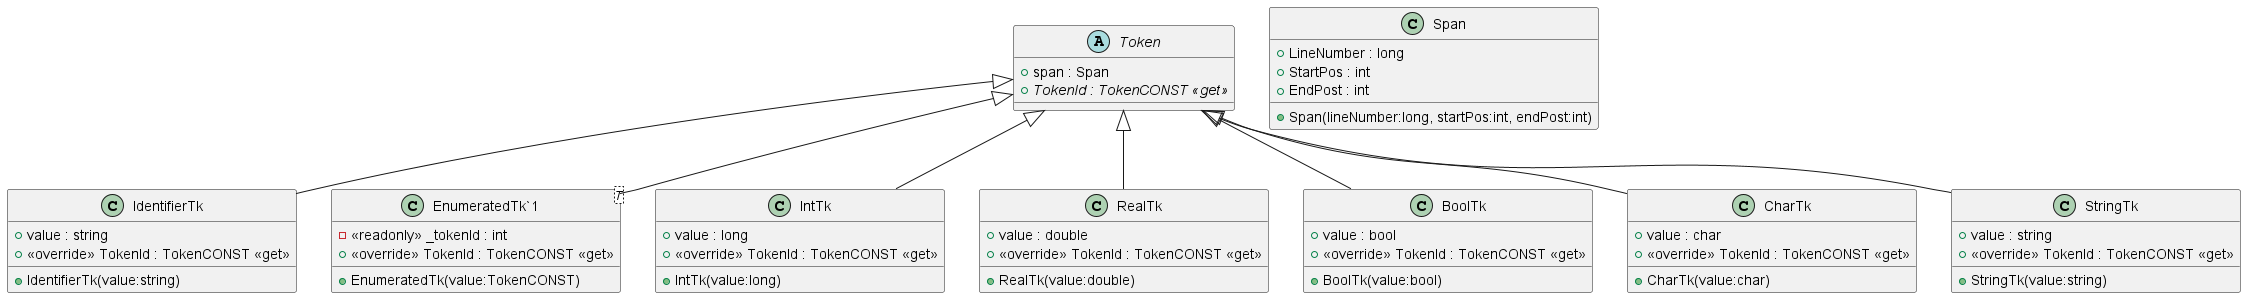
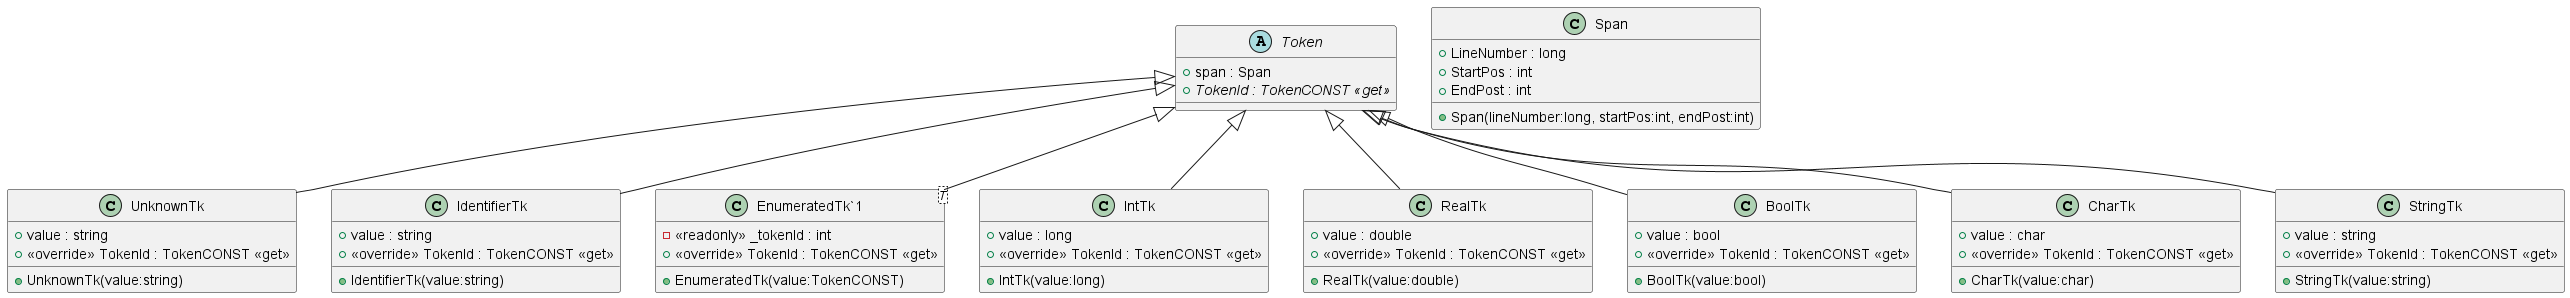
Add unknown token type

diff --git a/Compiler/Program.cs b/Compiler/Program.cs
@@ -3,7 +3,8 @@
 using Compiler.SyntaxAnalyser;
 using Newtonsoft.Json;
 
-var program = @"routine gcd (a: integer, b: integer): integer is
+var program = @"2a 4.2.0
+routine gcd (a: integer, b: integer): integer is
     if a > b then
 //some comment
        var small := b;
@@ -16,8 +17,15 @@ var program = @"routine gcd (a: integer, b: integer): integer is
         end;
     return ans;";
 
-// program = @"for i in 1 .. (small + 1) loop is";
+// program = @"2a int";
 
 
 foreach (var tok in SyntaxAnalyser.FinalStateAutomata(program))
-    Console.WriteLine($"{tok.TokenId} \t {JsonConvert.SerializeObject(tok)}");
+{
+    Console.ForegroundColor = ConsoleColor.Yellow;
+    Console.Write($"{tok.GetType().Name}\t");
+    Console.ForegroundColor = ConsoleColor.Green;
+    Console.Write($"{tok.TokenId}\t");
+    Console.ForegroundColor = ConsoleColor.White;
+    Console.WriteLine($"{JsonConvert.SerializeObject(tok)}");
+}

diff --git a/Compiler/SyntaxAnalyser/SyntaxAnalyser.cs b/Compiler/SyntaxAnalyser/SyntaxAnalyser.cs
@@ -41,7 +41,8 @@ public static class SyntaxAnalyser
                     token = new EnumeratedTk<Comparators>(preset);
             }
             // Makes Const tokens of types integer and real
-            else if (TokenRegexes.Numbers.IsMatch(buffer) && !(char.IsNumber(symbol) || symbol == '.'))
+            else if (TokenRegexes.Numbers.IsMatch(buffer) &&
+                     !(char.IsNumber(symbol) || char.IsLetter(symbol) || symbol == '.'))
             {
                 if (long.TryParse(buffer, out var integer)) token = new IntTk(integer);
 
@@ -72,6 +73,10 @@ public static class SyntaxAnalyser
                 }
 
                 buffer = "";
+            }
+            else if (TokenRegexes.Unknown.IsMatch(buffer) && TokenRegexes.Whitespaces.IsMatch(symbol.ToString()))
+            {
+                token = new UnknownTk(buffer);
             }
 
             if (token is not null)

diff --git a/Compiler/Tokens/TokenRegexes.cs b/Compiler/Tokens/TokenRegexes.cs
@@ -5,8 +5,7 @@ namespace Compiler.Tokens;
 public static class TokenRegexes
 {
     // https://regex101.com/
-    public static readonly Regex Numbers = new(@"^[-]?(\d+\.?\d*|\d*\.\d+)");
-    public static readonly Regex Letters = new(@"[_a-zA-Z]");
+    public static readonly Regex Numbers = new(@"^[-]?(\d+\.?\d*|\d*\.\d+)$");
     public static readonly Regex Identifiers = new(@"^[_a-zA-Z]+[_a-zA-Z1-9]*");
     public static readonly Regex Strings = new("\"[^\"]*\"");
     public static readonly Regex Chars = new("'.'");
@@ -15,4 +14,5 @@ public static class TokenRegexes
     public static readonly Regex Comparators = new(@"^(<=|>=|<|>|=|/=)$");
     public static readonly Regex Puncuators = new(@"^[\(\)\{\}\[\]\;\:\,]$");
     public static readonly Regex Operators = new(@"^(:=|-|\+|\*|\/|%|\.\.|\.)|((and|xor|or))$");
+    public static readonly Regex Unknown = new(@"^[1-9]+[\D]+");
 }

diff --git a/Compiler/Tokens/Token.cs b/Compiler/Tokens/Token.cs
@@ -6,6 +6,18 @@ public abstract class Token
     public abstract TokenCONST TokenId { get; }
 }
 
+public class UnknownTk : Token
+{
+    public string value;
+
+    public UnknownTk(string value)
+    {
+        this.value = value;
+    }
+
+    public override TokenCONST TokenId => TokenCONST.TkUnknown;
+}
+
 public class IdentifierTk : Token
 {
     public string value;
